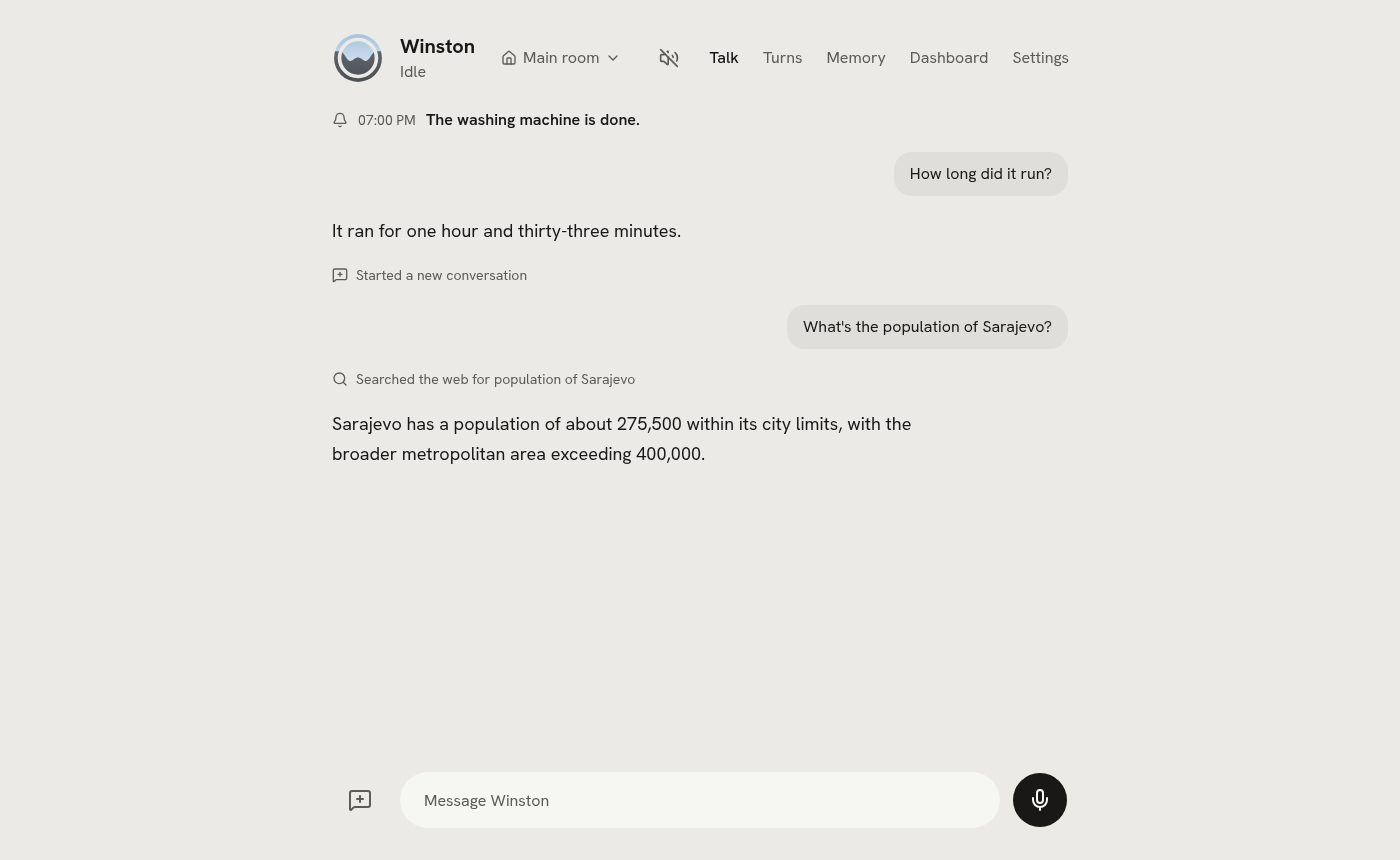
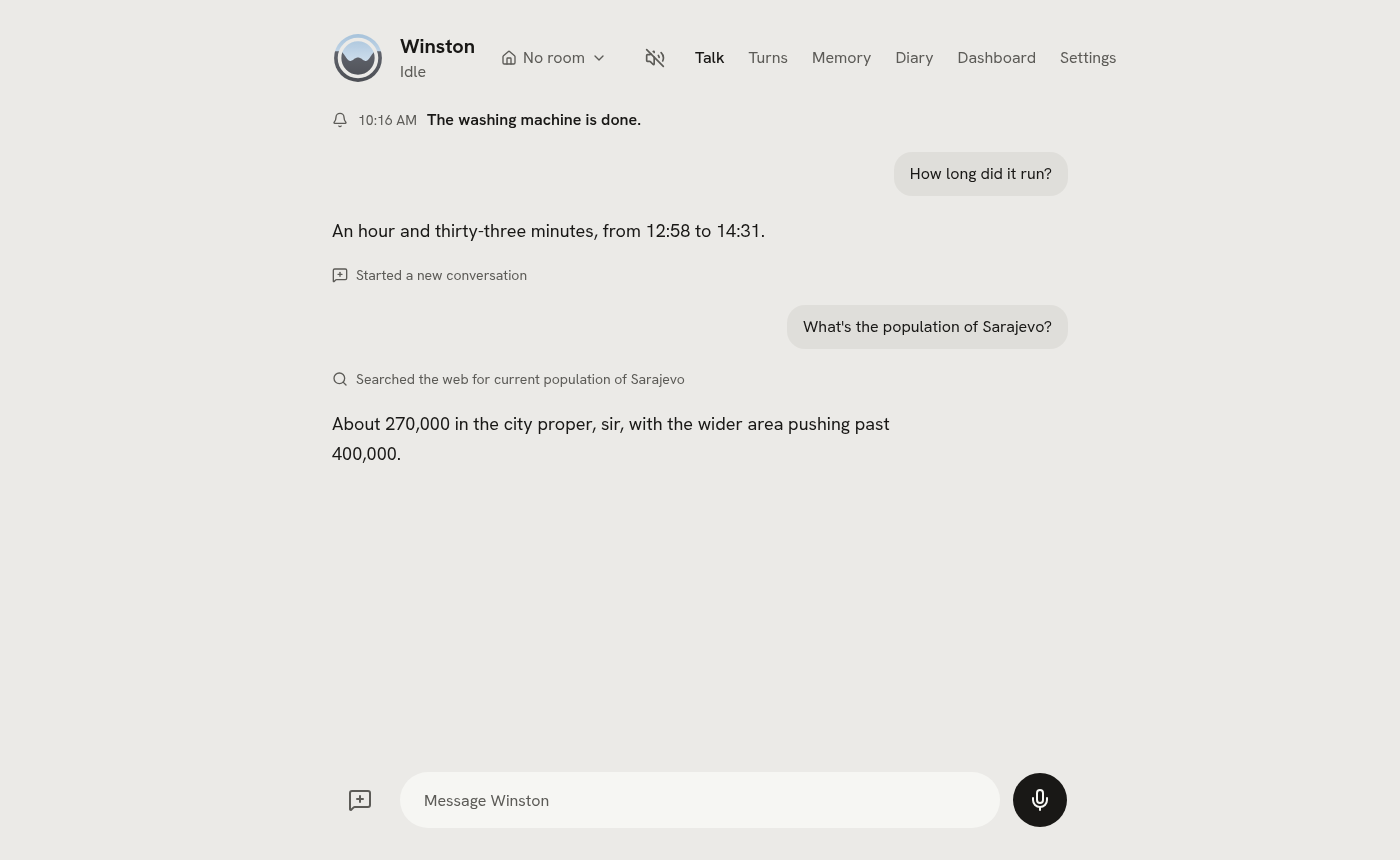
Recommended setup for a 24 GB card; README checked against the code
docs/hardware.md gets what the reference box runs and what each pick beat:
the 27B on llama.cpp over the 9B on vLLM (42 of 42 brain trials against
36), Breeze TTS 2 over streamed Turbo (9 of 10 blind pairs), Parakeet over
Qwen3-ASR only because Qwen3-ASR does not fit beside Breeze, with the box's
latency since 11 October and Qwen3-ASR as the step for 2 GB more. Not a
profile, since Breeze's weights are non-commercial.

README: he answers first and checks the device afterwards, not before
(core/verify.py); the 1.3 s holds for a plain question (box median 1.28 s,
tools 2.4 s); the diary joins the memory line. The Talk shots are retaken
on a throwaway winstond with fake Home Assistant, showing the Diary tab.

diff --git a/docs/hardware.md b/docs/hardware.md
@@ -16,6 +16,31 @@ Hearing is Parakeet TDT 0.6B v3 through ONNX on the CPU in every profile. Voice 
 taking and the wake word are CPU work too. Home control never leaves the LAN in any profile; the
 hosted profile sends only the conversation text to the model provider.
 
+## Recommended on a 24 GB card
+
+What the reference box (an RTX 3090) runs. Each slot was measured against what else fits beside the
+other two:
+
+| Slot | Pick | VRAM | Instead of | Why |
+|---|---|---|---|---|
+| Brain | Qwen3.8-27B at 4 bits on llama.cpp (`unsloth/Qwen3.8-27B-GGUF:UD-Q4_K_S`), MTP drafting, 32K context, thinking only before a home action | 17 GB | Qwen3.5-9B on vLLM | 42 of 42 brain trials against 36 of 42, first reply text in 0.94 s against 0.87 s. No vision. |
+| Voice | Breeze TTS 2 (Voice preset `breeze2`) | 6 GB | Chatterbox-Turbo, streamed (3 GB) | Won 9 of 10 blind pairs (as an all-bf16 build); first sound in 0.18 s against 0.45 s ([voices](voices.md#breeze-tts-2-as-the-voice-10-october)). |
+| Hearing | Parakeet TDT 0.6B v3, int8, on the CPU | none | Qwen3-ASR 0.6B (2.2 GB) | Qwen3-ASR hears better but does not fit beside Breeze. |
+
+The card sits at 23.9 of 24.6 GB. On the Voice PE box since 11 October, from the end of speech to
+the first sound: 1.28 s median for a plain question (20 turns), 2.4 s when he uses a tool (39 turns),
+and 2.3 s to confirm a home request.
+
+No profile sets this up, since Breeze's weights are for research and non-commercial use only. Start
+from `nvidia-24gb-27b`, run `uv sync` in `services/tts-breeze2`, and pick Breeze TTS 2 on the Voice
+page. The reference box also swaps in huihui-ai's abliterated build of the same 27B (refusals
+removed, MTP layer kept): the same brain trials and speed, 0.25 GB more.
+
+**With 2 GB more** (a 32 GB card, or a second GPU for hearing), add Qwen3-ASR 0.6B. Against
+Parakeet it got a hint word right 9 times of 9 against 6, and had 6.3% word errors against 18.3%
+with other people talking in the background, for 0.09 s more per request
+([voices](voices.md#hearing-engines)).
+
 ## Measured (2026-09-23)
 
 | | `nvidia-24gb` | `ollama` on the same box, GPU already full |

diff --git a/README.md b/README.md
@@ -19,12 +19,13 @@ by default, and any part can be swapped for a hosted service.
 
 - **Local first.** Speech recognition, the language model and the voice run on one GPU, or on Ollama
   and the CPU. Each can point at a hosted API instead.
-- **Fast.** About 1.3 s from the end of your sentence to his first word, and you can talk over him.
-- **Controls your home** through Home Assistant's MCP server, and checks a change happened before
-  saying it did.
+- **Fast.** About 1.3 s from the end of a plain question to his first word, and you can talk over him.
+- **Controls your home** through Home Assistant's MCP server, then checks the device really changed
+  and corrects himself when it did not.
 - **In every room.** The browser, a wall tablet, and Home Assistant's Voice PE with an
   "Okay Winston" wake word. Start a conversation at one and finish it at another.
-- **Remembers** what you tell him, in plain Markdown you can read and edit.
+- **Remembers** what you tell him, in plain Markdown you can read and edit, and writes a diary of each
+  day you can ask him about.
 - **Speaks up.** Announcements from Home Assistant, a word before what is on your calendar, and
   reminders reach the room you are in or your phone; in quiet hours only what you asked for.
 - **Extensible.** Add a tool in one Python file or connect any MCP server. Your calendar, news,
